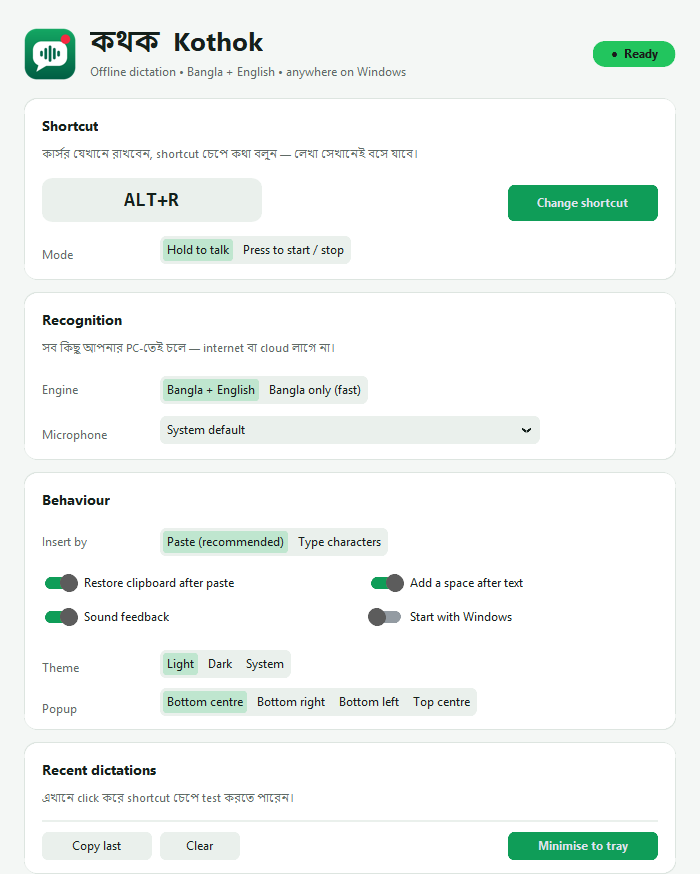
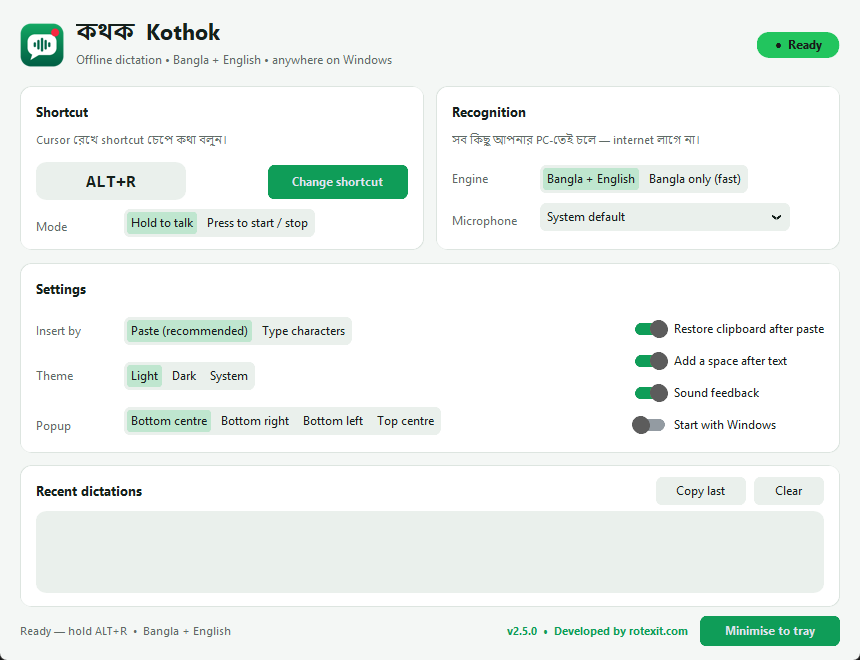
Compact settings window, opens centred on screen

diff --git a/website/app/page.jsx b/website/app/page.jsx
@@ -113,8 +113,8 @@ export default function Home() {
               </p>
             </div>
             <figure className="shot">
-              <img className="only-light" src="/screenshot-light.png" alt="Kothok-এর সেটিংস উইন্ডো" width="700" height="874" />
-              <img className="only-dark" src="/screenshot-dark.png" alt="Kothok-এর সেটিংস উইন্ডো (ডার্ক থিম)" width="700" height="874" />
+              <img className="only-light" src="/screenshot-light.png" alt="Kothok-এর সেটিংস উইন্ডো" width="860" height="660" />
+              <img className="only-dark" src="/screenshot-dark.png" alt="Kothok-এর সেটিংস উইন্ডো (ডার্ক থিম)" width="860" height="660" />
               <figcaption>কথক-এর সেটিংস উইন্ডো</figcaption>
             </figure>
           </div>

diff --git a/app.py b/app.py
@@ -30,7 +30,7 @@ import numpy as np
 APP_NAME = "Kothok"          # কথক - "the one who speaks"
 APP_BN = "কথক"
 APP_ID = "Kothok"
-VERSION = "2.5.0"
+VERSION = "2.6.0"
 WEBSITE = "https://rotexit.com"
 UPDATE_REPO = "itrabbi24/kothok"   # GitHub releases are checked for new versions
 UPDATE_ASSET = "Kothok-update.zip"  # app-only zip (no models) attached to every release
@@ -1307,7 +1307,7 @@ class App:
         import customtkinter as ctk
         r = self.root
         r.title(f"{APP_NAME}")
-        r.geometry("700x930"); r.minsize(640, 870)  # was 700x880 / 640x820 before the Popup row
+        r.geometry("860x660"); r.minsize(820, 620)  # was 700x930 (single column)
         # customtkinter replaces the window icon ~200ms after start, so set ours after that
         # (frozen builds keep bundled data in sys._MEIPASS = the _internal folder)
         ico = Path(getattr(sys, "_MEIPASS", ROOT)) / "app.ico"
@@ -1324,94 +1324,101 @@ class App:
         F = lambda size, weight="normal": ctk.CTkFont(family="Segoe UI", size=size, weight=weight)
         BN = lambda size, weight="normal": ctk.CTkFont(family="Nirmala UI", size=size, weight=weight)
 
+        # Compact two-column layout (v2.6). The previous single-column layout (one card per row,
+        # 700x930) is kept below in _build_window_v1_reference for reference.
         outer = ctk.CTkFrame(r, fg_color=C_BG, corner_radius=0)
         outer.pack(fill="both", expand=True)
-        outer.grid_columnconfigure(0, weight=1)
+        outer.grid_columnconfigure((0, 1), weight=1, uniform="col")
 
         # ---- header
-        head = ctk.CTkFrame(outer, fg_color="transparent"); head.grid(row=0, column=0, sticky="ew", padx=24, pady=(22, 6))
+        head = ctk.CTkFrame(outer, fg_color="transparent")
+        head.grid(row=0, column=0, columnspan=2, sticky="ew", padx=20, pady=(16, 6))
         head.grid_columnconfigure(1, weight=1)
         try:
-            self._logo = ctk.CTkImage(make_icon("idle", 128), size=(52, 52))
-            ctk.CTkLabel(head, image=self._logo, text="").grid(row=0, column=0, rowspan=2, padx=(0, 14))
+            self._logo = ctk.CTkImage(make_icon("idle", 128), size=(44, 44))
+            ctk.CTkLabel(head, image=self._logo, text="").grid(row=0, column=0, rowspan=2, padx=(0, 12))
         except Exception:
             pass
-        ctk.CTkLabel(head, text=f"{APP_BN}  Kothok", font=BN(26, "bold"), text_color=C_TEXT).grid(row=0, column=1, sticky="sw")
+        ctk.CTkLabel(head, text=f"{APP_BN}  Kothok", font=BN(22, "bold"), text_color=C_TEXT).grid(row=0, column=1, sticky="sw")
         ctk.CTkLabel(head, text="Offline dictation • Bangla + English • anywhere on Windows",
                      font=F(12), text_color=C_MUTED).grid(row=1, column=1, sticky="nw")
         self.chip = ctk.CTkLabel(head, text="  Loading…  ", font=F(12, "bold"), corner_radius=12,
                                  fg_color=C_AMBER, text_color="#1a1a1a", height=26)
         self.chip.grid(row=0, column=2, rowspan=2, sticky="e")
 
-        def card(row, title, subtitle=None):
-            c = ctk.CTkFrame(outer, fg_color=C_CARD, corner_radius=14, border_width=1, border_color=C_BORDER)
-            c.grid(row=row, column=0, sticky="ew", padx=24, pady=6)
+        def card(row, col, title, subtitle=None, span=1):
+            c = ctk.CTkFrame(outer, fg_color=C_CARD, corner_radius=12, border_width=1, border_color=C_BORDER)
+            c.grid(row=row, column=col, columnspan=span, sticky="nsew",
+                   padx=(20 if col == 0 else 6, 20 if col + span == 2 else 6), pady=6)
             c.grid_columnconfigure(1, weight=1)
-            ctk.CTkLabel(c, text=title, font=F(14, "bold"), text_color=C_TEXT).grid(
-                row=0, column=0, columnspan=3, sticky="w", padx=18, pady=(14, 0 if subtitle else 8))
+            ctk.CTkLabel(c, text=title, font=F(13, "bold"), text_color=C_TEXT).grid(
+                row=0, column=0, columnspan=3, sticky="w", padx=16, pady=(12, 0 if subtitle else 6))
             if subtitle:
                 ctk.CTkLabel(c, text=subtitle, font=F(11), text_color=C_MUTED, justify="left").grid(
-                    row=1, column=0, columnspan=3, sticky="w", padx=18, pady=(0, 8))
+                    row=1, column=0, columnspan=3, sticky="w", padx=16, pady=(0, 6))
             return c
 
-        def label(c, row, text):
-            ctk.CTkLabel(c, text=text, font=F(12), text_color=C_MUTED, width=110, anchor="w").grid(
-                row=row, column=0, sticky="w", padx=(18, 8), pady=6)
+        def label(c, row, text, pady=5):
+            ctk.CTkLabel(c, text=text, font=F(12), text_color=C_MUTED, width=82, anchor="w").grid(
+                row=row, column=0, sticky="w", padx=(16, 6), pady=pady)
 
-        # ---- shortcut card
-        c = card(1, "Shortcut", "কার্সর যেখানে রাখবেন, shortcut চেপে কথা বলুন — লেখা সেখানেই বসে যাবে।")
+        def segmented(c, row, values, var, command, last=False):
+            ctk.CTkSegmentedButton(c, values=values, variable=var, font=F(12),
+                                   selected_color=C_SEL, selected_hover_color=C_SEL_H, text_color=C_TEXT,
+                                   unselected_color=C_KEY, fg_color=C_KEY, command=command).grid(
+                row=row, column=1, columnspan=2, sticky="w", padx=(0, 16), pady=(5, 14 if last else 5))
+
+        save = lambda _v=None: self.save_settings(quiet=True)
+
+        # ---- shortcut (left)
+        c = card(1, 0, "Shortcut", "Cursor রেখে shortcut চেপে কথা বলুন।")
         self.hotkey_var = tk.StringVar(value=self.cfg["hotkey"])
-        self.hotkey_lbl = ctk.CTkLabel(c, textvariable=self.hotkey_var, font=ctk.CTkFont("Consolas", 20, "bold"),
-                                       fg_color=C_KEY, corner_radius=10, text_color=C_TEXT, height=44, width=220)
-        self.hotkey_lbl.grid(row=2, column=0, columnspan=2, sticky="w", padx=18, pady=(2, 8))
-        self.capture_btn = ctk.CTkButton(c, text="Change shortcut", command=self.begin_capture, width=150,
-                                         height=36, fg_color=C_ACCENT, hover_color=C_ACCENT_H, font=F(12, "bold"))
-        self.capture_btn.grid(row=2, column=2, sticky="e", padx=18)
+        self.hotkey_lbl = ctk.CTkLabel(c, textvariable=self.hotkey_var, font=ctk.CTkFont("Consolas", 18, "bold"),
+                                       fg_color=C_KEY, corner_radius=10, text_color=C_TEXT, height=38, width=150)
+        self.hotkey_lbl.grid(row=2, column=0, columnspan=2, sticky="w", padx=16, pady=(2, 4))
+        self.capture_btn = ctk.CTkButton(c, text="Change shortcut", command=self.begin_capture, width=140,
+                                         height=34, fg_color=C_ACCENT, hover_color=C_ACCENT_H, font=F(12, "bold"))
+        self.capture_btn.grid(row=2, column=2, sticky="e", padx=16)
         label(c, 3, "Mode")
         self.mode_map = {"Hold to talk": "hold", "Press to start / stop": "toggle"}
         self.mode_var = tk.StringVar(value={v: k for k, v in self.mode_map.items()}[self.cfg["mode"]])
-        ctk.CTkSegmentedButton(c, values=list(self.mode_map), variable=self.mode_var, font=F(12),
-                               selected_color=C_SEL, selected_hover_color=C_SEL_H, text_color=C_TEXT, unselected_color=C_KEY, fg_color=C_KEY,
-                               command=lambda _v: self.save_settings(quiet=True)).grid(
-            row=3, column=1, columnspan=2, sticky="w", padx=(0, 18), pady=(6, 16))
+        segmented(c, 3, list(self.mode_map), self.mode_var, save, last=True)
 
-        # ---- recognition card
-        c = card(2, "Recognition", "সব কিছু আপনার PC-তেই চলে — internet বা cloud লাগে না।")
+        # ---- recognition (right)
+        c = card(1, 1, "Recognition", "সব কিছু আপনার PC-তেই চলে — internet লাগে না।")
         label(c, 2, "Engine")
         self.engine_map = {"Bangla + English": "mixed", "Bangla only (fast)": "bangla"}
         self.engine_var = tk.StringVar(value={v: k for k, v in self.engine_map.items()}[self.cfg["engine"]])
-        ctk.CTkSegmentedButton(c, values=list(self.engine_map), variable=self.engine_var, font=F(12),
-                               selected_color=C_SEL, selected_hover_color=C_SEL_H, text_color=C_TEXT, unselected_color=C_KEY, fg_color=C_KEY,
-                               command=lambda _v: self.save_settings(quiet=True)).grid(
-            row=2, column=1, columnspan=2, sticky="w", padx=(0, 18), pady=6)
+        segmented(c, 2, list(self.engine_map), self.engine_var, save)
         self.lang_var = tk.StringVar(value=LANG_LABELS.get(self.cfg["language"], LANG_LABELS["auto"]))
-        # Language picker disabled: it only applied to the old turbo engine; "Bangla + English" now
-        # detects English phrases automatically.
-        # label(c, 3, "Language")
-        # ctk.CTkOptionMenu(c, values=list(LANG_LABELS.values()), variable=self.lang_var, font=F(12),
-        #                   fg_color=C_KEY, button_color=C_KEY, button_hover_color=C_BORDER, width=260,
-        #                   command=lambda _v: self.save_settings(quiet=True)).grid(
-        #     row=3, column=1, columnspan=2, sticky="w", pady=6)
-        label(c, 4, "Microphone")
+        # (Language picker stays disabled - see _build_window_v1_reference)
+        label(c, 3, "Microphone")
         self.mics = self.list_mics()
         self.mic_var = tk.StringVar(value=self.cfg["device"] or "System default")
         ctk.CTkOptionMenu(c, values=["System default"] + self.mics, variable=self.mic_var, font=F(12),
-                          fg_color=C_KEY, button_color=C_KEY, button_hover_color=C_BORDER, width=380, text_color=C_TEXT,
+                          fg_color=C_KEY, button_color=C_KEY, button_hover_color=C_BORDER, width=250, text_color=C_TEXT,
                           dropdown_fg_color=C_CARD, dropdown_text_color=C_TEXT, dropdown_hover_color=C_KEY,
-                          dynamic_resizing=False, command=lambda _v: self.save_settings(quiet=True)).grid(
-            row=4, column=1, columnspan=2, sticky="w", pady=(6, 16))
+                          dynamic_resizing=False, command=save).grid(
+            row=3, column=1, columnspan=2, sticky="w", padx=(0, 16), pady=(5, 14))
 
-        # ---- behaviour card
-        c = card(3, "Behaviour")
+        # ---- settings (full width: choices left, switches right)
+        c = card(2, 0, "Settings", span=2)
+        c.grid_columnconfigure(1, weight=0)
+        c.grid_columnconfigure(3, weight=1)
         label(c, 1, "Insert by")
         self.output_map = {"Paste (recommended)": "paste", "Type characters": "type"}
         self.output_var = tk.StringVar(value={v: k for k, v in self.output_map.items()}[self.cfg["output"]])
-        ctk.CTkSegmentedButton(c, values=list(self.output_map), variable=self.output_var, font=F(12),
-                               selected_color=C_SEL, selected_hover_color=C_SEL_H, text_color=C_TEXT, unselected_color=C_KEY, fg_color=C_KEY,
-                               command=lambda _v: self.save_settings(quiet=True)).grid(
-            row=1, column=1, columnspan=2, sticky="w", pady=6)
-        sw = ctk.CTkFrame(c, fg_color="transparent"); sw.grid(row=2, column=0, columnspan=3, sticky="ew", padx=18, pady=(4, 14))
-        sw.grid_columnconfigure((0, 1), weight=1)
+        segmented(c, 1, list(self.output_map), self.output_var, save)
+        label(c, 2, "Theme")
+        self.theme_var = tk.StringVar(value=THEMES[self.cfg.get("theme", "light")])
+        segmented(c, 2, list(THEMES.values()), self.theme_var,
+                  lambda v: self.set_theme({b: a for a, b in THEMES.items()}[v]))
+        label(c, 3, "Popup")
+        self.pos_var = tk.StringVar(value=POSITIONS[self.cfg.get("popup_position", "bottom-center")])
+        segmented(c, 3, list(POSITIONS.values()), self.pos_var,
+                  lambda v: self.set_position({b: a for a, b in POSITIONS.items()}[v]), last=True)
+        sw = ctk.CTkFrame(c, fg_color="transparent")
+        sw.grid(row=1, column=3, rowspan=3, sticky="ne", padx=(10, 16), pady=(4, 12))
         self.restore_var = tk.BooleanVar(value=self.cfg["restore_clipboard"])
         self.space_var = tk.BooleanVar(value=self.cfg["trailing_space"])
         self.sounds_var = tk.BooleanVar(value=self.cfg["sounds"])
@@ -1421,44 +1428,164 @@ class App:
                                          ("Sound feedback", self.sounds_var),
                                          ("Start with Windows", self.autostart_var))):
             ctk.CTkSwitch(sw, text=text, variable=var, font=F(12), progress_color=C_ACCENT, text_color=C_TEXT,
-                          command=lambda: self.save_settings(quiet=True)).grid(
-                row=i // 2, column=i % 2, sticky="w", pady=5)
-        label(c, 3, "Theme")
-        self.theme_var = tk.StringVar(value=THEMES[self.cfg.get("theme", "light")])
-        ctk.CTkSegmentedButton(c, values=list(THEMES.values()), variable=self.theme_var, font=F(12),
-                               selected_color=C_SEL, selected_hover_color=C_SEL_H, text_color=C_TEXT, unselected_color=C_KEY, fg_color=C_KEY,
-                               command=lambda v: self.set_theme({b: a for a, b in THEMES.items()}[v])).grid(
-            row=3, column=1, columnspan=2, sticky="w", pady=(0, 8))
-        label(c, 4, "Popup")
-        self.pos_var = tk.StringVar(value=POSITIONS[self.cfg.get("popup_position", "bottom-center")])
-        ctk.CTkSegmentedButton(c, values=list(POSITIONS.values()), variable=self.pos_var, font=F(12),
-                               selected_color=C_SEL, selected_hover_color=C_SEL_H, text_color=C_TEXT, unselected_color=C_KEY, fg_color=C_KEY,
-                               command=lambda v: self.set_position({b: a for a, b in POSITIONS.items()}[v])).grid(
-            row=4, column=1, columnspan=2, sticky="w", pady=(0, 14))
+                          command=save).grid(row=i, column=0, sticky="w", pady=4)
 
-        # ---- history card
-        c = card(4, "Recent dictations", "এখানে click করে shortcut চেপে test করতে পারেন।")
-        c.grid_rowconfigure(2, weight=1)
-        c.grid_configure(sticky="nsew"); outer.grid_rowconfigure(4, weight=1)
-        self.text = ctk.CTkTextbox(c, height=70, font=BN(15), fg_color=C_KEY, text_color=C_TEXT,
+        # ---- recent dictations (full width, compact)
+        c = card(3, 0, "Recent dictations", span=2)
+        c.grid_rowconfigure(1, weight=1)
+        outer.grid_rowconfigure(3, weight=1)
+        bf = ctk.CTkFrame(c, fg_color="transparent")
+        bf.grid(row=0, column=2, sticky="e", padx=16, pady=(10, 4))
+        ctk.CTkButton(bf, text="Copy last", width=90, height=28, command=self.copy_last, fg_color=C_KEY,
+                      text_color=C_TEXT, hover_color=C_BORDER, font=F(12)).pack(side="left")
+        ctk.CTkButton(bf, text="Clear", width=70, height=28, command=lambda: self.text.delete("1.0", "end"),
+                      fg_color=C_KEY, hover_color=C_BORDER, text_color=C_TEXT, font=F(12)).pack(side="left", padx=(8, 0))
+        self.text = ctk.CTkTextbox(c, height=56, font=BN(14), fg_color=C_KEY, text_color=C_TEXT,
                                    border_width=0, corner_radius=10, wrap="word")
-        self.text.grid(row=2, column=0, columnspan=3, sticky="nsew", padx=18, pady=(0, 10))
-        bf = ctk.CTkFrame(c, fg_color="transparent"); bf.grid(row=3, column=0, columnspan=3, sticky="ew", padx=18, pady=(0, 14))
-        ctk.CTkButton(bf, text="Copy last", width=110, command=self.copy_last, fg_color=C_KEY, text_color=C_TEXT,
-                      hover_color=C_BORDER, font=F(12)).pack(side="left")
-        ctk.CTkButton(bf, text="Clear", width=80, command=lambda: self.text.delete("1.0", "end"),
-                      fg_color=C_KEY, hover_color=C_BORDER, text_color=C_TEXT, font=F(12)).pack(side="left", padx=8)
-        ctk.CTkButton(bf, text="Minimise to tray", width=150, command=self.hide_window, fg_color=C_ACCENT,
-                      hover_color=C_ACCENT_H, font=F(12, "bold")).pack(side="right")
+        self.text.grid(row=1, column=0, columnspan=3, sticky="nsew", padx=16, pady=(0, 14))
 
         # ---- footer
-        foot = ctk.CTkFrame(outer, fg_color="transparent"); foot.grid(row=5, column=0, sticky="ew", padx=24, pady=(4, 18))
+        foot = ctk.CTkFrame(outer, fg_color="transparent")
+        foot.grid(row=4, column=0, columnspan=2, sticky="ew", padx=20, pady=(2, 14))
         self.status_var = tk.StringVar(value="Starting…")
         ctk.CTkLabel(foot, textvariable=self.status_var, font=F(11), text_color=C_MUTED).pack(side="left")
         link = ctk.CTkLabel(foot, text=f"v{VERSION}  •  Developed by rotexit.com", font=F(11, "bold"),
                             text_color=C_ACCENT, cursor="hand2")
+        ctk.CTkButton(foot, text="Minimise to tray", width=140, height=30, command=self.hide_window,
+                      fg_color=C_ACCENT, hover_color=C_ACCENT_H, font=F(12, "bold")).pack(side="right", padx=(12, 0))
         link.pack(side="right")
         link.bind("<Button-1>", lambda e: os.startfile(WEBSITE))
+
+    def _build_window_v1_reference(self):  # pragma: no cover - old layout, not called
+        """Previous single-column settings layout, kept for reference."""
+        return
+        # outer = ctk.CTkFrame(r, fg_color=C_BG, corner_radius=0)
+        # outer.pack(fill="both", expand=True)
+        # outer.grid_columnconfigure(0, weight=1)
+
+        # # ---- header
+        # head = ctk.CTkFrame(outer, fg_color="transparent"); head.grid(row=0, column=0, sticky="ew", padx=24, pady=(22, 6))
+        # head.grid_columnconfigure(1, weight=1)
+        # try:
+        #     self._logo = ctk.CTkImage(make_icon("idle", 128), size=(52, 52))
+        #     ctk.CTkLabel(head, image=self._logo, text="").grid(row=0, column=0, rowspan=2, padx=(0, 14))
+        # except Exception:
+        #     pass
+        # ctk.CTkLabel(head, text=f"{APP_BN}  Kothok", font=BN(26, "bold"), text_color=C_TEXT).grid(row=0, column=1, sticky="sw")
+        # ctk.CTkLabel(head, text="Offline dictation • Bangla + English • anywhere on Windows",
+        #              font=F(12), text_color=C_MUTED).grid(row=1, column=1, sticky="nw")
+        # self.chip = ctk.CTkLabel(head, text="  Loading…  ", font=F(12, "bold"), corner_radius=12,
+        #                          fg_color=C_AMBER, text_color="#1a1a1a", height=26)
+        # self.chip.grid(row=0, column=2, rowspan=2, sticky="e")
+
+        # def card(row, title, subtitle=None):
+        #     c = ctk.CTkFrame(outer, fg_color=C_CARD, corner_radius=14, border_width=1, border_color=C_BORDER)
+        #     c.grid(row=row, column=0, sticky="ew", padx=24, pady=6)
+        #     c.grid_columnconfigure(1, weight=1)
+        #     ctk.CTkLabel(c, text=title, font=F(14, "bold"), text_color=C_TEXT).grid(
+        #         row=0, column=0, columnspan=3, sticky="w", padx=18, pady=(14, 0 if subtitle else 8))
+        #     if subtitle:
+        #         ctk.CTkLabel(c, text=subtitle, font=F(11), text_color=C_MUTED, justify="left").grid(
+        #             row=1, column=0, columnspan=3, sticky="w", padx=18, pady=(0, 8))
+        #     return c
+
+        # def label(c, row, text):
+        #     ctk.CTkLabel(c, text=text, font=F(12), text_color=C_MUTED, width=110, anchor="w").grid(
+        #         row=row, column=0, sticky="w", padx=(18, 8), pady=6)
+
+        # # ---- shortcut card
+        # c = card(1, "Shortcut", "কার্সর যেখানে রাখবেন, shortcut চেপে কথা বলুন — লেখা সেখানেই বসে যাবে।")
+        # self.hotkey_var = tk.StringVar(value=self.cfg["hotkey"])
+        # self.hotkey_lbl = ctk.CTkLabel(c, textvariable=self.hotkey_var, font=ctk.CTkFont("Consolas", 20, "bold"),
+        #                                fg_color=C_KEY, corner_radius=10, text_color=C_TEXT, height=44, width=220)
+        # self.hotkey_lbl.grid(row=2, column=0, columnspan=2, sticky="w", padx=18, pady=(2, 8))
+        # self.capture_btn = ctk.CTkButton(c, text="Change shortcut", command=self.begin_capture, width=150,
+        #                                  height=36, fg_color=C_ACCENT, hover_color=C_ACCENT_H, font=F(12, "bold"))
+        # self.capture_btn.grid(row=2, column=2, sticky="e", padx=18)
+        # label(c, 3, "Mode")
+        # self.mode_map = {"Hold to talk": "hold", "Press to start / stop": "toggle"}
+        # self.mode_var = tk.StringVar(value={v: k for k, v in self.mode_map.items()}[self.cfg["mode"]])
+        # ctk.CTkSegmentedButton(c, values=list(self.mode_map), variable=self.mode_var, font=F(12),
+        #                        selected_color=C_SEL, selected_hover_color=C_SEL_H, text_color=C_TEXT, unselected_color=C_KEY, fg_color=C_KEY,
+        #                        command=lambda _v: self.save_settings(quiet=True)).grid(
+        #     row=3, column=1, columnspan=2, sticky="w", padx=(0, 18), pady=(6, 16))
+
+        # # ---- recognition card
+        # c = card(2, "Recognition", "সব কিছু আপনার PC-তেই চলে — internet বা cloud লাগে না।")
+        # label(c, 2, "Engine")
+        # self.engine_map = {"Bangla + English": "mixed", "Bangla only (fast)": "bangla"}
+        # self.engine_var = tk.StringVar(value={v: k for k, v in self.engine_map.items()}[self.cfg["engine"]])
+        # ctk.CTkSegmentedButton(c, values=list(self.engine_map), variable=self.engine_var, font=F(12),
+        #                        selected_color=C_SEL, selected_hover_color=C_SEL_H, text_color=C_TEXT, unselected_color=C_KEY, fg_color=C_KEY,
+        #                        command=lambda _v: self.save_settings(quiet=True)).grid(
+        #     row=2, column=1, columnspan=2, sticky="w", padx=(0, 18), pady=6)
+        # self.lang_var = tk.StringVar(value=LANG_LABELS.get(self.cfg["language"], LANG_LABELS["auto"]))
+        # # Language picker disabled: it only applied to the old turbo engine; "Bangla + English" now
+        # # detects English phrases automatically.
+        # # label(c, 3, "Language")
+        # # ctk.CTkOptionMenu(c, values=list(LANG_LABELS.values()), variable=self.lang_var, font=F(12),
+        # #                   fg_color=C_KEY, button_color=C_KEY, button_hover_color=C_BORDER, width=260,
+        # #                   command=lambda _v: self.save_settings(quiet=True)).grid(
+        # #     row=3, column=1, columnspan=2, sticky="w", pady=6)
+        # label(c, 4, "Microphone")
+        # self.mics = self.list_mics()
+        # self.mic_var = tk.StringVar(value=self.cfg["device"] or "System default")
+        # ctk.CTkOptionMenu(c, values=["System default"] + self.mics, variable=self.mic_var, font=F(12),
+        #                   fg_color=C_KEY, button_color=C_KEY, button_hover_color=C_BORDER, width=380, text_color=C_TEXT,
+        #                   dropdown_fg_color=C_CARD, dropdown_text_color=C_TEXT, dropdown_hover_color=C_KEY,
+        #                   dynamic_resizing=False, command=lambda _v: self.save_settings(quiet=True)).grid(
+        #     row=4, column=1, columnspan=2, sticky="w", pady=(6, 16))
+
+        # # ---- behaviour card
+        # c = card(3, "Behaviour")
+        # label(c, 1, "Insert by")
+        # self.output_map = {"Paste (recommended)": "paste", "Type characters": "type"}
+        # self.output_var = tk.StringVar(value={v: k for k, v in self.output_map.items()}[self.cfg["output"]])
+        # ctk.CTkSegmentedButton(c, values=list(self.output_map), variable=self.output_var, font=F(12),
+        #                        selected_color=C_SEL, selected_hover_color=C_SEL_H, text_color=C_TEXT, unselected_color=C_KEY, fg_color=C_KEY,
+        #                        command=lambda _v: self.save_settings(quiet=True)).grid(
+        #     row=1, column=1, columnspan=2, sticky="w", pady=6)
+        # sw = ctk.CTkFrame(c, fg_color="transparent"); sw.grid(row=2, column=0, columnspan=3, sticky="ew", padx=18, pady=(4, 14))
+        # sw.grid_columnconfigure((0, 1), weight=1)
+        # self.restore_var = tk.BooleanVar(value=self.cfg["restore_clipboard"])
+        # self.space_var = tk.BooleanVar(value=self.cfg["trailing_space"])
+        # self.sounds_var = tk.BooleanVar(value=self.cfg["sounds"])
+        # self.autostart_var = tk.BooleanVar(value=self.cfg["autostart"])
+        # for i, (text, var) in enumerate((("Restore clipboard after paste", self.restore_var),
+        #                                  ("Add a space after text", self.space_var),
+        #                                  ("Sound feedback", self.sounds_var),
+        #                                  ("Start with Windows", self.autostart_var))):
+        #     ctk.CTkSwitch(sw, text=text, variable=var, font=F(12), progress_color=C_ACCENT, text_color=C_TEXT,
+        #                   command=lambda: self.save_settings(quiet=True)).grid(
+        #         row=i // 2, column=i % 2, sticky="w", pady=5)
+        # label(c, 3, "Theme")
+        # self.theme_var = tk.StringVar(value=THEMES[self.cfg.get("theme", "light")])
+        # ctk.CTkSegmentedButton(c, values=list(THEMES.values()), variable=self.theme_var, font=F(12),
+        #                        selected_color=C_SEL, selected_hover_color=C_SEL_H, text_color=C_TEXT, unselected_color=C_KEY, fg_color=C_KEY,
+        #                        command=lambda v: self.set_theme({b: a for a, b in THEMES.items()}[v])).grid(
+        #     row=3, column=1, columnspan=2, sticky="w", pady=(0, 8))
+        # label(c, 4, "Popup")
+        # self.pos_var = tk.StringVar(value=POSITIONS[self.cfg.get("popup_position", "bottom-center")])
+        # ctk.CTkSegmentedButton(c, values=list(POSITIONS.values()), variable=self.pos_var, font=F(12),
+        #                        selected_color=C_SEL, selected_hover_color=C_SEL_H, text_color=C_TEXT, unselected_color=C_KEY, fg_color=C_KEY,
+        #                        command=lambda v: self.set_position({b: a for a, b in POSITIONS.items()}[v])).grid(
+        #     row=4, column=1, columnspan=2, sticky="w", pady=(0, 14))
+
+        # # ---- history card
+        # c = card(4, "Recent dictations", "এখানে click করে shortcut চেপে test করতে পারেন।")
+        # c.grid_rowconfigure(2, weight=1)
+        # c.grid_configure(sticky="nsew"); outer.grid_rowconfigure(4, weight=1)
+        # self.text = ctk.CTkTextbox(c, height=70, font=BN(15), fg_color=C_KEY, text_color=C_TEXT,
+        #                            border_width=0, corner_radius=10, wrap="word")
+        # self.text.grid(row=2, column=0, columnspan=3, sticky="nsew", padx=18, pady=(0, 10))
+        # bf = ctk.CTkFrame(c, fg_color="transparent"); bf.grid(row=3, column=0, columnspan=3, sticky="ew", padx=18, pady=(0, 14))
+        # ctk.CTkButton(bf, text="Copy last", width=110, command=self.copy_last, fg_color=C_KEY, text_color=C_TEXT,
+        #               hover_color=C_BORDER, font=F(12)).pack(side="left")
+        # ctk.CTkButton(bf, text="Clear", width=80, command=lambda: self.text.delete("1.0", "end"),
+        #               fg_color=C_KEY, hover_color=C_BORDER, text_color=C_TEXT, font=F(12)).pack(side="left", padx=8)
+        # ctk.CTkButton(bf, text="Minimise to tray", width=150, command=self.hide_window, fg_color=C_ACCENT,
+        #               hover_color=C_ACCENT_H, font=F(12, "bold")).pack(side="right")
+
 
     def list_mics(self):
         try:
@@ -1546,6 +1673,24 @@ class App:
 
     def show_window(self):
         self.root.deiconify(); self.root.lift(); self.root.focus_force()
+        if not getattr(self, "_centred", False):
+            self._centred = True
+            self.root.after(60, self.centre_window)
+
+    def centre_window(self):
+        """Centre the window in the work area (screen minus taskbar), using real pixel sizes."""
+        try:
+            self.root.update_idletasks()
+            hwnd = user32.GetParent(self.root.winfo_id()) or self.root.winfo_id()
+            win, wa = wintypes.RECT(), wintypes.RECT()
+            user32.GetWindowRect(hwnd, ctypes.byref(win))
+            user32.SystemParametersInfoW(0x30, 0, ctypes.byref(wa), 0)  # SPI_GETWORKAREA
+            w, h = win.right - win.left, win.bottom - win.top
+            x = wa.left + max(0, (wa.right - wa.left - w) // 2)
+            y = wa.top + max(0, (wa.bottom - wa.top - h) // 2)
+            user32.SetWindowPos(hwnd, None, x, y, 0, 0, 0x1 | 0x4 | 0x10)  # NOSIZE | NOZORDER | NOACTIVATE
+        except Exception:
+            log.exception("centre window")
 
     def hide_window(self):
         self.root.withdraw()
